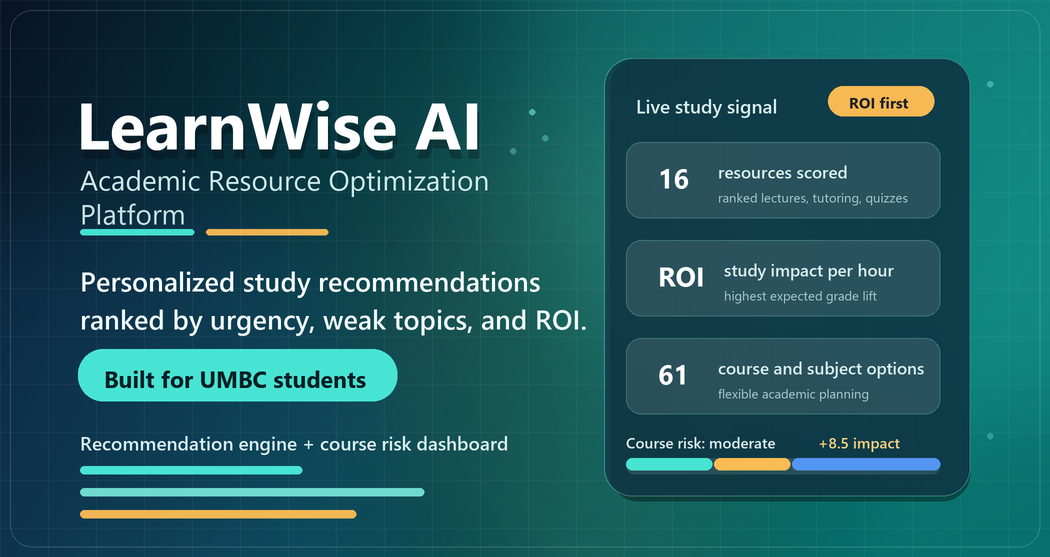
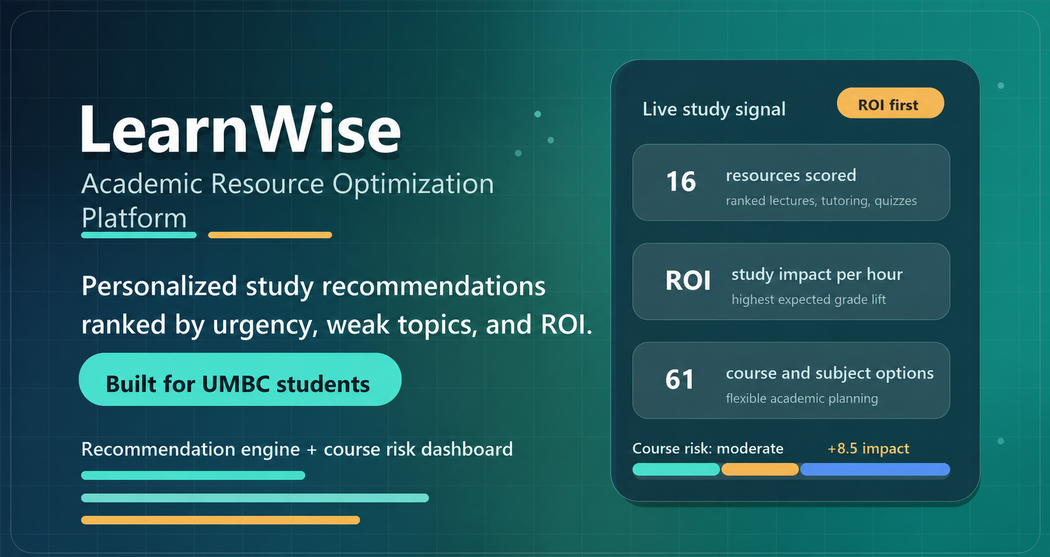
Rename LearnWise brand

diff --git a/index.html b/index.html
@@ -3,7 +3,7 @@
   <head>
     <meta charset="utf-8">
     <meta name="viewport" content="width=device-width, initial-scale=1">
-    <title>LearnWise AI</title>
+    <title>LearnWise</title>
     <link rel="stylesheet" href="styles.css">
   </head>
   <body>
@@ -11,7 +11,7 @@
       <section class="hero">
         <div>
           <p class="eyebrow">Academic decision support</p>
-          <h1>LearnWise AI</h1>
+          <h1>LearnWise</h1>
           <p class="intro">
             Optimize limited study time by ranking the highest-impact resources for each course, topic, and deadline.
           </p>

diff --git a/README.md b/README.md
@@ -1,16 +1,16 @@
-# LearnWise AI
+# LearnWise
 
-![LearnWise AI thumbnail](thumbnail.png)
+![LearnWise thumbnail](thumbnail.png)
 
-LearnWise AI is an academic resource optimization platform for UMBC students that helps them decide which study resources will help them most right now. Instead of only generating content, it ranks study actions by expected impact, time required, urgency, learning preference, course subject, and topic weakness.
+LearnWise is an academic resource optimization platform for UMBC students that helps them decide which study resources will help them most right now. Instead of only generating content, it ranks study actions by expected impact, time required, urgency, learning preference, course subject, and topic weakness.
 
 ## Live Demo
 
-[Open LearnWise AI](https://jasonbinong.github.io/LearnWise-AI/)
+[Open LearnWise](https://jasonbinong.github.io/LearnWise-AI/)
 
 ## What It Does
 
-LearnWise AI acts like a decision-support tool for studying. A student enters course context, available study time, topic weakness, academic urgency, and preferred learning style, then receives ranked recommendations designed to make limited study time more effective.
+LearnWise acts like a decision-support tool for studying. A student enters course context, available study time, topic weakness, academic urgency, and preferred learning style, then receives ranked recommendations designed to make limited study time more effective.
 
 ## Features
 
@@ -32,7 +32,7 @@ No installation is required.
 
 ## Project Goal
 
-Students often have access to lecture slides, textbook chapters, videos, tutoring, office hours, writing support, library resources, and practice problems, but they do not know which option gives the best return on limited study time. LearnWise AI works as a decision-support system that recommends the highest-value academic resources for each situation.
+Students often have access to lecture slides, textbook chapters, videos, tutoring, office hours, writing support, library resources, and practice problems, but they do not know which option gives the best return on limited study time. LearnWise works as a decision-support system that recommends the highest-value academic resources for each situation.
 
 ## Tech Stack
 
@@ -56,7 +56,7 @@ Students often have access to many academic resources, including lectures, tutor
 
 ### Solution
 
-LearnWise AI ranks study resources based on course context, weak topics, current grade, time available, deadline pressure, learning style, study goal, and resource access. Instead of giving generic study advice, it recommends the highest-impact actions for the student's situation.
+LearnWise ranks study resources based on course context, weak topics, current grade, time available, deadline pressure, learning style, study goal, and resource access. Instead of giving generic study advice, it recommends the highest-impact actions for the student's situation.
 
 ### Key Design Decisions
 
